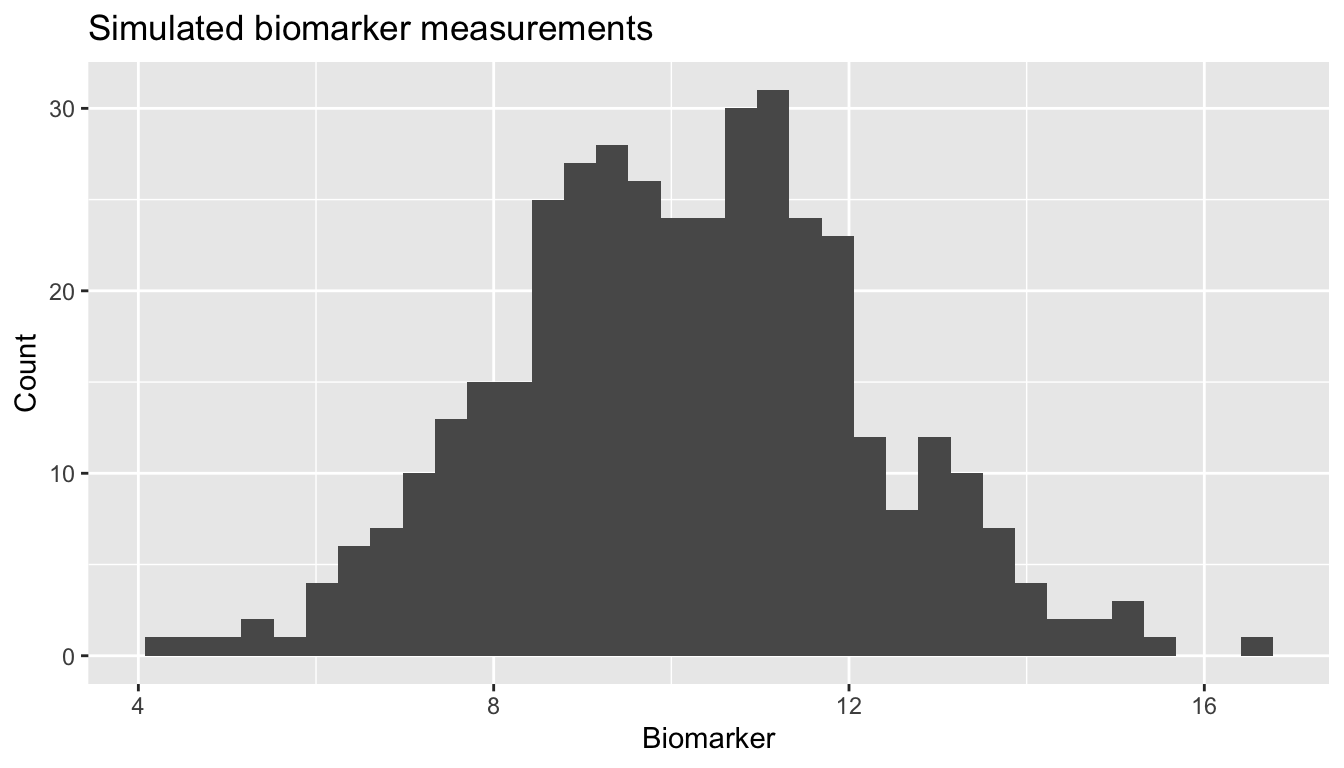
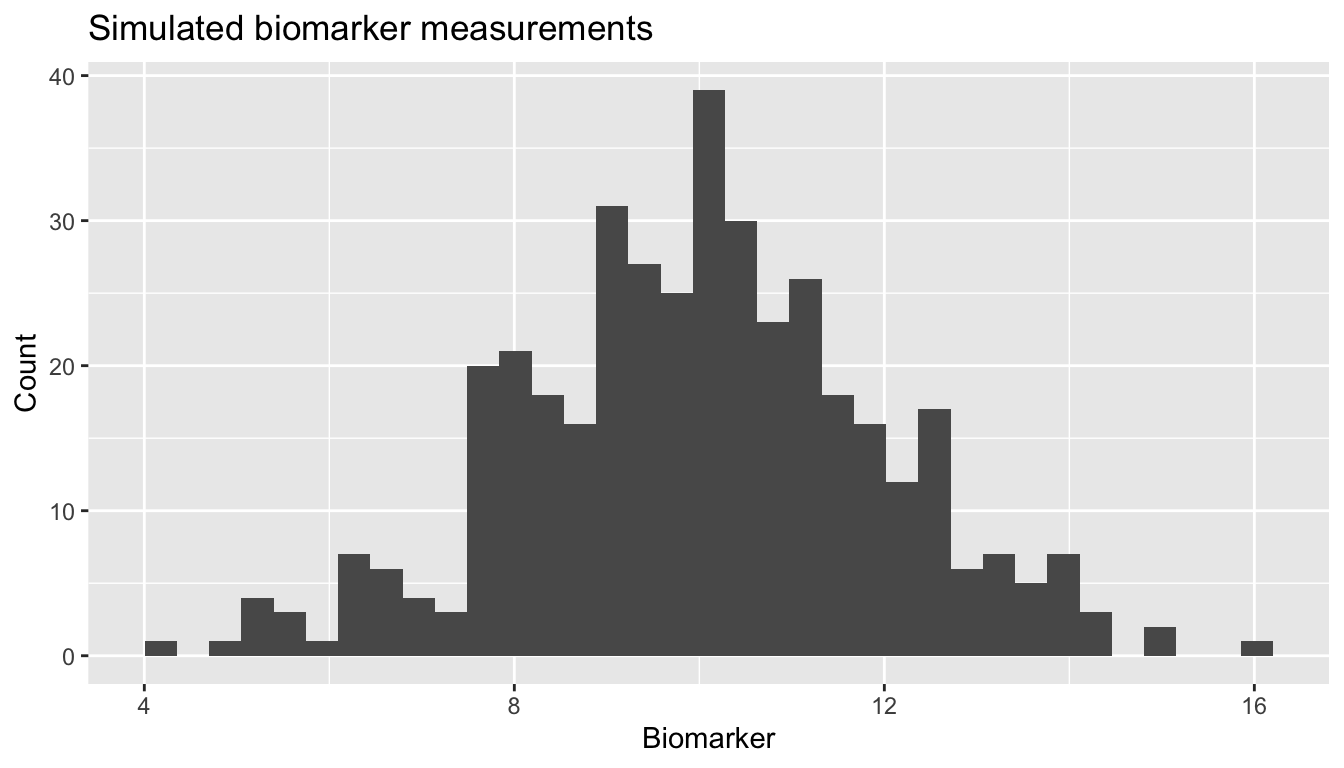
Added lecture files

diff --git a/index.html b/index.html
@@ -251,8 +251,8 @@
 </ul>
 </div>
 </section>
-<section id="probability-defnition" class="slide level2">
-<h2>Probability: Defnition</h2>
+<section id="probability-definition" class="slide level2">
+<h2>Probability: Definition</h2>
 <div style="font-size:0.7em">
 <ul>
 <li><p>a measure of how likely an event is to occur<br>
@@ -472,8 +472,8 @@ Y_i \sim \text{Bernoulli}(p)
 <pre><code># A tibble: 2 × 3
   mutation     n  prop
      &lt;int&gt; &lt;int&gt; &lt;dbl&gt;
-1        0   168  0.84
-2        1    32  0.16</code></pre>
+1        0   161 0.805
+2        1    39 0.195</code></pre>
 </div>
 </div>
 <p>Interpretation:</p>
@@ -547,12 +547,39 @@ P(Y=\text{NR}) = p_{NR}
 <pre><code># A tibble: 3 × 3
   response     n  prop
   &lt;fct&gt;    &lt;int&gt; &lt;dbl&gt;
-1 CR          57 0.19 
-2 PR         145 0.483
-3 NR          98 0.327</code></pre>
+1 CR          45  0.15
+2 PR         171  0.57
+3 NR          84  0.28</code></pre>
 </div>
 </div>
-<p>Interpretatioin:</p>
+</div>
+</section>
+<section class="slide level2">
+
+<h3 id="code-exampleclinical-trial-patient-responses-2">Code example:Clinical Trial Patient Responses</h3>
+<div style="font-size:0.5em">
+<div class="cell">
+<div class="sourceCode cell-code" id="cb5"><pre class="sourceCode numberSource r number-lines code-with-copy"><code class="sourceCode r"><span id="cb5-1"><a href=""></a>n <span class="ot">&lt;-</span> <span class="dv">300</span></span>
+<span id="cb5-2"><a href=""></a>levels_resp <span class="ot">&lt;-</span> <span class="fu">c</span>(<span class="st">"CR"</span>, <span class="st">"PR"</span>, <span class="st">"NR"</span>)</span>
+<span id="cb5-3"><a href=""></a>probs_resp  <span class="ot">&lt;-</span> <span class="fu">c</span>(<span class="fl">0.20</span>, <span class="fl">0.50</span>, <span class="fl">0.30</span>)</span>
+<span id="cb5-4"><a href=""></a></span>
+<span id="cb5-5"><a href=""></a>response <span class="ot">&lt;-</span> <span class="fu">sample</span>(levels_resp, <span class="at">size =</span> n, <span class="at">replace =</span> <span class="cn">TRUE</span>, <span class="at">prob =</span> probs_resp)</span>
+<span id="cb5-6"><a href=""></a></span>
+<span id="cb5-7"><a href=""></a>tab <span class="ot">&lt;-</span> <span class="fu">tibble</span>(<span class="at">response =</span> <span class="fu">factor</span>(response, <span class="at">levels =</span> levels_resp)) <span class="sc">|&gt;</span></span>
+<span id="cb5-8"><a href=""></a>  <span class="fu">count</span>(response) <span class="sc">|&gt;</span></span>
+<span id="cb5-9"><a href=""></a>  <span class="fu">mutate</span>(<span class="at">prop =</span> n <span class="sc">/</span> <span class="fu">sum</span>(n))</span>
+<span id="cb5-10"><a href=""></a></span>
+<span id="cb5-11"><a href=""></a>tab</span></code><button title="Copy to Clipboard" class="code-copy-button"><i class="bi"></i></button></pre></div>
+<div class="cell-output cell-output-stdout">
+<pre><code># A tibble: 3 × 3
+  response     n  prop
+  &lt;fct&gt;    &lt;int&gt; &lt;dbl&gt;
+1 CR          60  0.2 
+2 PR         147  0.49
+3 NR          93  0.31</code></pre>
+</div>
+</div>
+<p>Interpretation:</p>
 <p>For each response category:</p>
 <ul>
 <li><strong>CR, PR, NR</strong> : possible treatment outcomes<br>
@@ -591,13 +618,13 @@ P(Y=\text{NR}) = p_{NR}
 <li><p>measurements arise from a population distribution characterized by a mean level and variability</p></li>
 <li><p><code>rnorm()</code>: simulates draws from a normal population distribution</p></li>
 </ul>
-<div class="sourceCode" id="cb5"><pre class="sourceCode numberSource r number-lines code-with-copy"><code class="sourceCode r"><span id="cb5-1"><a href=""></a>biomarker <span class="ot">&lt;-</span> <span class="fu">rnorm</span>(n, <span class="at">mean =</span> mu, <span class="at">sd =</span> sigma)</span></code><button title="Copy to Clipboard" class="code-copy-button"><i class="bi"></i></button></pre></div>
+<div class="sourceCode" id="cb7"><pre class="sourceCode numberSource r number-lines code-with-copy"><code class="sourceCode r"><span id="cb7-1"><a href=""></a>biomarker <span class="ot">&lt;-</span> <span class="fu">rnorm</span>(n, <span class="at">mean =</span> mu, <span class="at">sd =</span> sigma)</span></code><button title="Copy to Clipboard" class="code-copy-button"><i class="bi"></i></button></pre></div>
 <ul>
 <li>each observation represents a sampled patient measurement</li>
 <li>histogram visualizes the empirical distribution observed in the sample</li>
 </ul>
 <div class="cell">
-<div class="sourceCode cell-code" id="cb6"><pre class="sourceCode numberSource r number-lines code-with-copy"><code class="sourceCode r"><span id="cb6-1"><a href=""></a>plot_cont</span></code><button title="Copy to Clipboard" class="code-copy-button"><i class="bi"></i></button></pre></div>
+<div class="sourceCode cell-code" id="cb8"><pre class="sourceCode numberSource r number-lines code-with-copy"><code class="sourceCode r"><span id="cb8-1"><a href=""></a>plot_cont</span></code><button title="Copy to Clipboard" class="code-copy-button"><i class="bi"></i></button></pre></div>
 <div class="cell-output-display">
 <div>
 <figure>
@@ -621,7 +648,7 @@ P(Y=\text{NR}) = p_{NR}
 <li>histogram shows how these measurements are distributed across the cohort</li>
 </ul>
 <div class="cell">
-<div class="sourceCode cell-code" id="cb7"><pre class="sourceCode numberSource r number-lines code-with-copy"><code class="sourceCode r"><span id="cb7-1"><a href=""></a>plot_cont</span></code><button title="Copy to Clipboard" class="code-copy-button"><i class="bi"></i></button></pre></div>
+<div class="sourceCode cell-code" id="cb9"><pre class="sourceCode numberSource r number-lines code-with-copy"><code class="sourceCode r"><span id="cb9-1"><a href=""></a>plot_cont</span></code><button title="Copy to Clipboard" class="code-copy-button"><i class="bi"></i></button></pre></div>
 <div class="cell-output-display">
 <div>
 <figure>
@@ -705,7 +732,7 @@ P(Y=\text{NR}) = p_{NR}
 </section>
 <section id="probability-distributions-describe-population-behavior" class="slide level2">
 <h2>Probability Distributions Describe Population Behavior</h2>
-<div style="font-size:0.7em">
+<div style="font-size:0.5em">
 <ul>
 <li><p><strong>population distribution</strong>: describes how outcomes vary across all individuals or units in a population</p></li>
 <li><p>probability distribution specifies:</p>

diff --git a/test_2_082025.html b/test_2_082025.html
@@ -251,8 +251,8 @@
 </ul>
 </div>
 </section>
-<section id="probability-defnition" class="slide level2">
-<h2>Probability: Defnition</h2>
+<section id="probability-definition" class="slide level2">
+<h2>Probability: Definition</h2>
 <div style="font-size:0.7em">
 <ul>
 <li><p>a measure of how likely an event is to occur<br>
@@ -472,8 +472,8 @@ Y_i \sim \text{Bernoulli}(p)
 <pre><code># A tibble: 2 × 3
   mutation     n  prop
      &lt;int&gt; &lt;int&gt; &lt;dbl&gt;
-1        0   168  0.84
-2        1    32  0.16</code></pre>
+1        0   161 0.805
+2        1    39 0.195</code></pre>
 </div>
 </div>
 <p>Interpretation:</p>
@@ -547,12 +547,39 @@ P(Y=\text{NR}) = p_{NR}
 <pre><code># A tibble: 3 × 3
   response     n  prop
   &lt;fct&gt;    &lt;int&gt; &lt;dbl&gt;
-1 CR          57 0.19 
-2 PR         145 0.483
-3 NR          98 0.327</code></pre>
+1 CR          45  0.15
+2 PR         171  0.57
+3 NR          84  0.28</code></pre>
 </div>
 </div>
-<p>Interpretatioin:</p>
+</div>
+</section>
+<section class="slide level2">
+
+<h3 id="code-exampleclinical-trial-patient-responses-2">Code example:Clinical Trial Patient Responses</h3>
+<div style="font-size:0.5em">
+<div class="cell">
+<div class="sourceCode cell-code" id="cb5"><pre class="sourceCode numberSource r number-lines code-with-copy"><code class="sourceCode r"><span id="cb5-1"><a href=""></a>n <span class="ot">&lt;-</span> <span class="dv">300</span></span>
+<span id="cb5-2"><a href=""></a>levels_resp <span class="ot">&lt;-</span> <span class="fu">c</span>(<span class="st">"CR"</span>, <span class="st">"PR"</span>, <span class="st">"NR"</span>)</span>
+<span id="cb5-3"><a href=""></a>probs_resp  <span class="ot">&lt;-</span> <span class="fu">c</span>(<span class="fl">0.20</span>, <span class="fl">0.50</span>, <span class="fl">0.30</span>)</span>
+<span id="cb5-4"><a href=""></a></span>
+<span id="cb5-5"><a href=""></a>response <span class="ot">&lt;-</span> <span class="fu">sample</span>(levels_resp, <span class="at">size =</span> n, <span class="at">replace =</span> <span class="cn">TRUE</span>, <span class="at">prob =</span> probs_resp)</span>
+<span id="cb5-6"><a href=""></a></span>
+<span id="cb5-7"><a href=""></a>tab <span class="ot">&lt;-</span> <span class="fu">tibble</span>(<span class="at">response =</span> <span class="fu">factor</span>(response, <span class="at">levels =</span> levels_resp)) <span class="sc">|&gt;</span></span>
+<span id="cb5-8"><a href=""></a>  <span class="fu">count</span>(response) <span class="sc">|&gt;</span></span>
+<span id="cb5-9"><a href=""></a>  <span class="fu">mutate</span>(<span class="at">prop =</span> n <span class="sc">/</span> <span class="fu">sum</span>(n))</span>
+<span id="cb5-10"><a href=""></a></span>
+<span id="cb5-11"><a href=""></a>tab</span></code><button title="Copy to Clipboard" class="code-copy-button"><i class="bi"></i></button></pre></div>
+<div class="cell-output cell-output-stdout">
+<pre><code># A tibble: 3 × 3
+  response     n  prop
+  &lt;fct&gt;    &lt;int&gt; &lt;dbl&gt;
+1 CR          60  0.2 
+2 PR         147  0.49
+3 NR          93  0.31</code></pre>
+</div>
+</div>
+<p>Interpretation:</p>
 <p>For each response category:</p>
 <ul>
 <li><strong>CR, PR, NR</strong> : possible treatment outcomes<br>
@@ -591,13 +618,13 @@ P(Y=\text{NR}) = p_{NR}
 <li><p>measurements arise from a population distribution characterized by a mean level and variability</p></li>
 <li><p><code>rnorm()</code>: simulates draws from a normal population distribution</p></li>
 </ul>
-<div class="sourceCode" id="cb5"><pre class="sourceCode numberSource r number-lines code-with-copy"><code class="sourceCode r"><span id="cb5-1"><a href=""></a>biomarker <span class="ot">&lt;-</span> <span class="fu">rnorm</span>(n, <span class="at">mean =</span> mu, <span class="at">sd =</span> sigma)</span></code><button title="Copy to Clipboard" class="code-copy-button"><i class="bi"></i></button></pre></div>
+<div class="sourceCode" id="cb7"><pre class="sourceCode numberSource r number-lines code-with-copy"><code class="sourceCode r"><span id="cb7-1"><a href=""></a>biomarker <span class="ot">&lt;-</span> <span class="fu">rnorm</span>(n, <span class="at">mean =</span> mu, <span class="at">sd =</span> sigma)</span></code><button title="Copy to Clipboard" class="code-copy-button"><i class="bi"></i></button></pre></div>
 <ul>
 <li>each observation represents a sampled patient measurement</li>
 <li>histogram visualizes the empirical distribution observed in the sample</li>
 </ul>
 <div class="cell">
-<div class="sourceCode cell-code" id="cb6"><pre class="sourceCode numberSource r number-lines code-with-copy"><code class="sourceCode r"><span id="cb6-1"><a href=""></a>plot_cont</span></code><button title="Copy to Clipboard" class="code-copy-button"><i class="bi"></i></button></pre></div>
+<div class="sourceCode cell-code" id="cb8"><pre class="sourceCode numberSource r number-lines code-with-copy"><code class="sourceCode r"><span id="cb8-1"><a href=""></a>plot_cont</span></code><button title="Copy to Clipboard" class="code-copy-button"><i class="bi"></i></button></pre></div>
 <div class="cell-output-display">
 <div>
 <figure>
@@ -621,7 +648,7 @@ P(Y=\text{NR}) = p_{NR}
 <li>histogram shows how these measurements are distributed across the cohort</li>
 </ul>
 <div class="cell">
-<div class="sourceCode cell-code" id="cb7"><pre class="sourceCode numberSource r number-lines code-with-copy"><code class="sourceCode r"><span id="cb7-1"><a href=""></a>plot_cont</span></code><button title="Copy to Clipboard" class="code-copy-button"><i class="bi"></i></button></pre></div>
+<div class="sourceCode cell-code" id="cb9"><pre class="sourceCode numberSource r number-lines code-with-copy"><code class="sourceCode r"><span id="cb9-1"><a href=""></a>plot_cont</span></code><button title="Copy to Clipboard" class="code-copy-button"><i class="bi"></i></button></pre></div>
 <div class="cell-output-display">
 <div>
 <figure>
@@ -705,7 +732,7 @@ P(Y=\text{NR}) = p_{NR}
 </section>
 <section id="probability-distributions-describe-population-behavior" class="slide level2">
 <h2>Probability Distributions Describe Population Behavior</h2>
-<div style="font-size:0.7em">
+<div style="font-size:0.5em">
 <ul>
 <li><p><strong>population distribution</strong>: describes how outcomes vary across all individuals or units in a population</p></li>
 <li><p>probability distribution specifies:</p>
